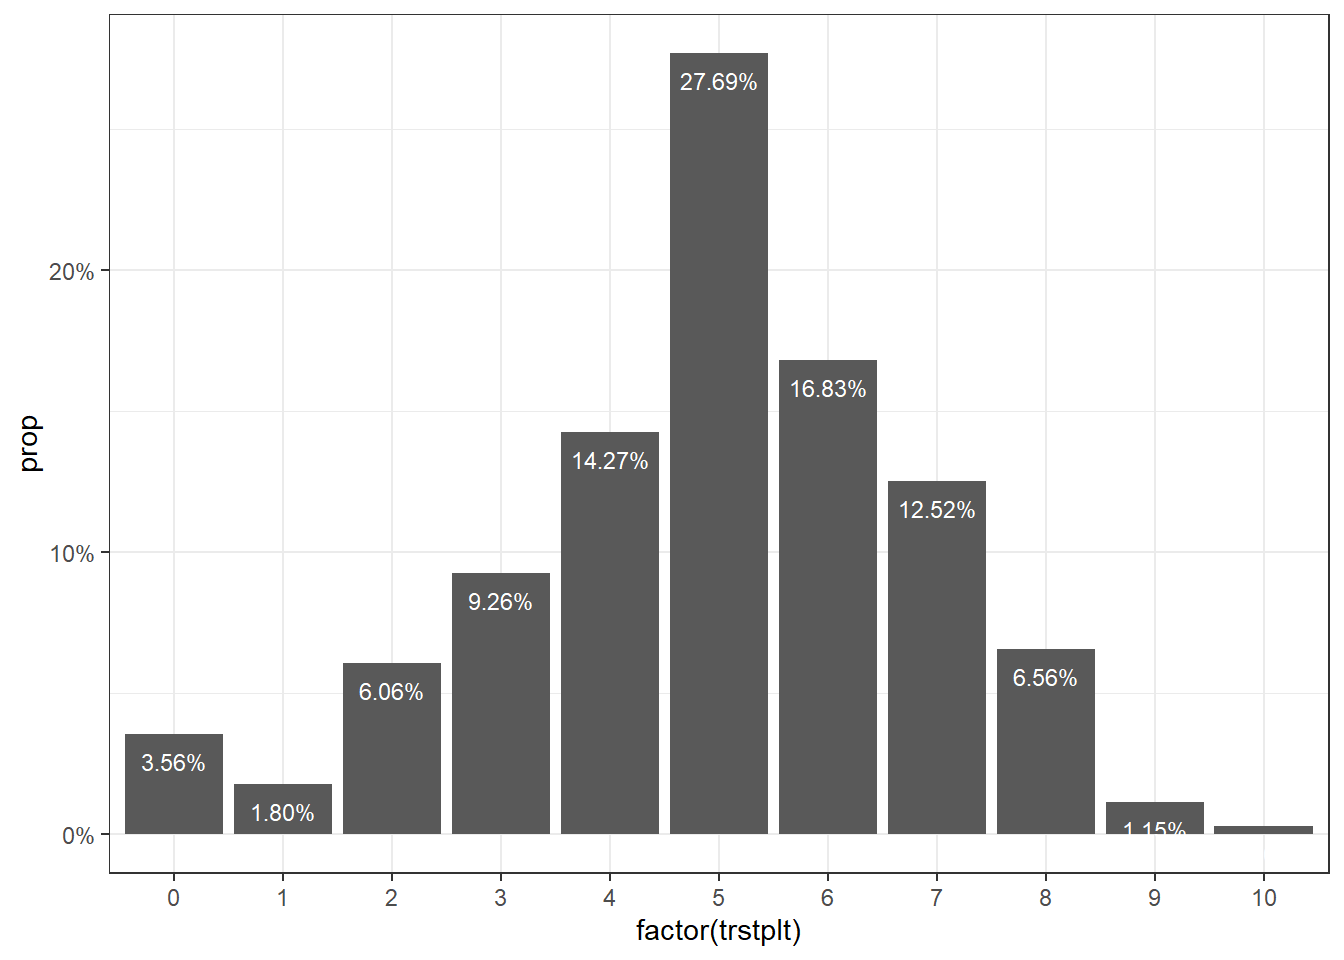
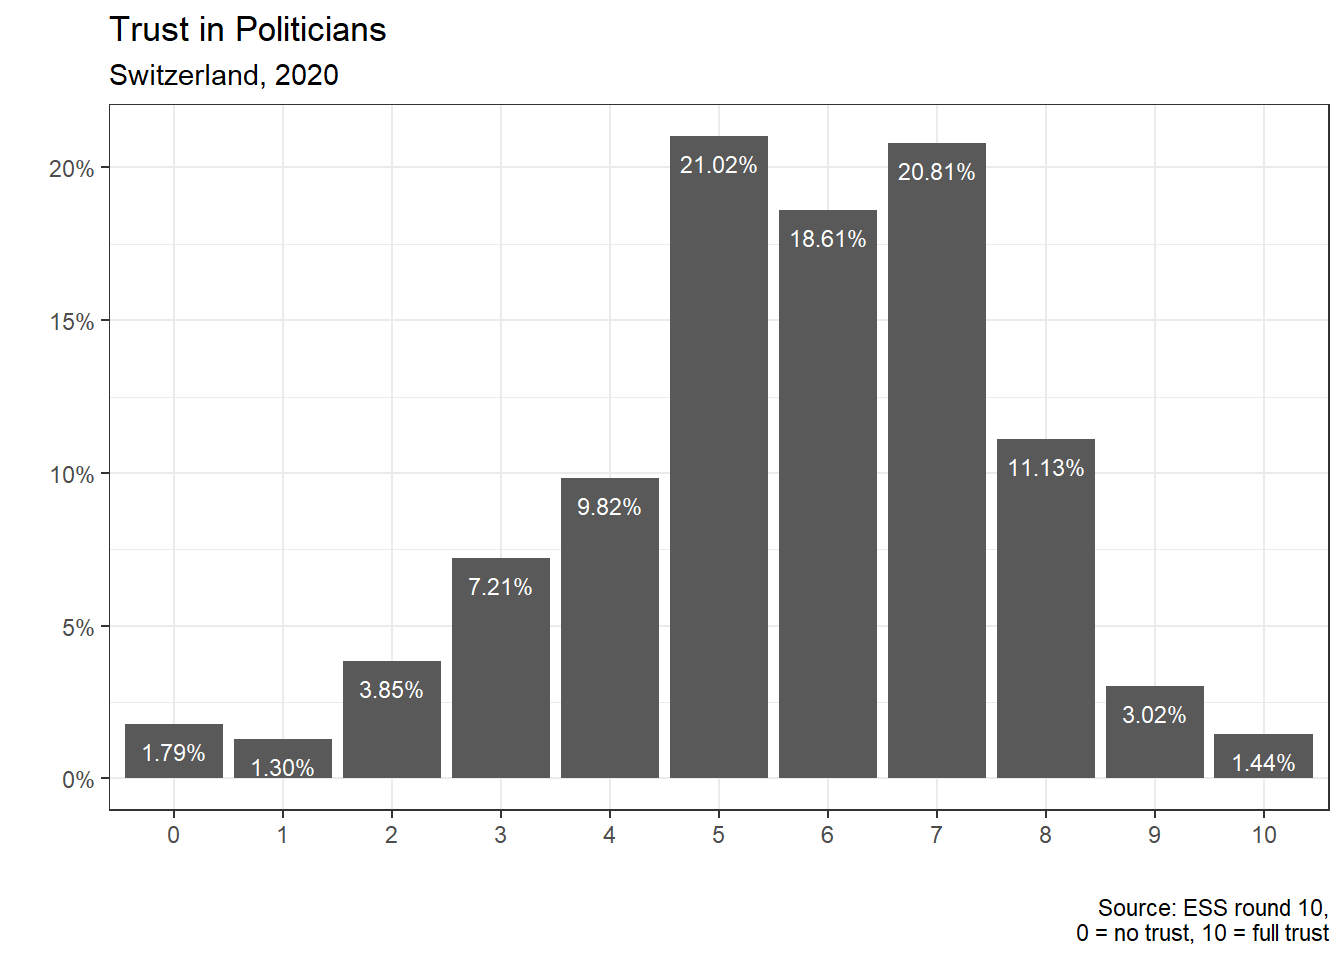
...

diff --git a/docs/posts/trust institution switzerland/trust institution switzerland.html b/docs/posts/trust institution switzerland/trust institution switzerland.html
@@ -181,10 +181,10 @@ div.csl-indent {
 <p>This dataset is in fact a harmonized dataset of all the successive post-electoral studies that have been conducted in Switzerland between 1971 and 2019 by different universities. This dataset contains a set of “trust in political institutions” variables which are of interest, but not all of them can be used because they are not avaliable for each year of the dataset. The ones which have the most time coverage are the following variables and that I will analyse here are described in the following table</p>
 <table class="table">
 <colgroup>
-<col style="width: 23%">
-<col style="width: 23%">
+<col style="width: 24%">
+<col style="width: 24%">
+<col style="width: 24%">
 <col style="width: 26%">
-<col style="width: 27%">
 </colgroup>
 <thead>
 <tr class="header">
@@ -332,20 +332,21 @@ div.csl-indent {
 </tr>
 </tbody>
 </table>
-<p>An advantage of the ESS data compared with Selects is the comparability of the trust in institutions variables. As we saw in the first graphs, Selects has changed the scale of their variables through the years, which makes comparison difficult even with a cumulative and harmonized dataset. ESS variables (see table above) do not change their scale, so one can compare data from 2002 and 2020 without the problems of the Selects data I had above.</p>
+<p>An advantage of the ESS data compared with Selects is the comparability of the trust in institutions variables. As we saw in the first graphs, Selects have changed the scale of their variables through the years, which makes comparison difficult even with a cumulative and harmonized dataset. ESS variables (see table above) do not change their scale, so one can compare data from 2002 and 2020 without facing the problems I had with Selects data.</p>
 <div class="cell">
 
 </div>
+<p>Let’s first have a look at how the variable is distributed for a given year, for instance 2020:</p>
 <div class="cell">
 <div class="cell-output-display">
 <p><img src="trust-institution-switzerland_files/figure-html/unnamed-chunk-4-1.png" class="img-fluid" width="672"></p>
 </div>
-<div class="cell-output-display">
-<p><img src="trust-institution-switzerland_files/figure-html/unnamed-chunk-4-2.png" class="img-fluid" width="672"></p>
 </div>
-<div class="cell-output-display">
-<p><img src="trust-institution-switzerland_files/figure-html/unnamed-chunk-4-3.png" class="img-fluid" width="672"></p>
-</div>
+<p>The graph is coherent with all the previous data we saw: most Swiss people have confidence and trust in the politicians of their country in 2020. What about the evolution of this trust if one looks at all the rounds provided by ESS since 2002? To have a look a this, I load all the ESS rounds, create an indicator variable (still fromthe same variable, trstplt) taking value 1 if the respondent takes at least value 5 and plot the proportion for each year:</p>
+<div class="quarto-figure quarto-figure-center">
+<figure class="figure">
+<p><img src="trust in instit blog post ess.png" class="img-fluid figure-img"></p>
+</figure>
 </div>
 
 

diff --git a/docs/index.html b/docs/index.html
@@ -279,7 +279,7 @@ To build their database on World political cleavages and inequality, Piketty and
 <a href="./posts/Techinal notes of political cleavages and inequality/technical note piketty 2021.html"> </a>
 </div>
 </div>
-<div class="quarto-post image-right" data-index="5" data-listing-file-modified-sort="1686650604990" data-listing-reading-time-sort="16.13">
+<div class="quarto-post image-right" data-index="5" data-listing-file-modified-sort="1686676144184" data-listing-reading-time-sort="18.81">
 <div class="thumbnail">
 <p><a href="./posts/trust institution switzerland/trust institution switzerland.html"> <img src="./posts/trust institution switzerland/graph_ocde2.png" class="thumnail-image"> </a></p>
 </div>
